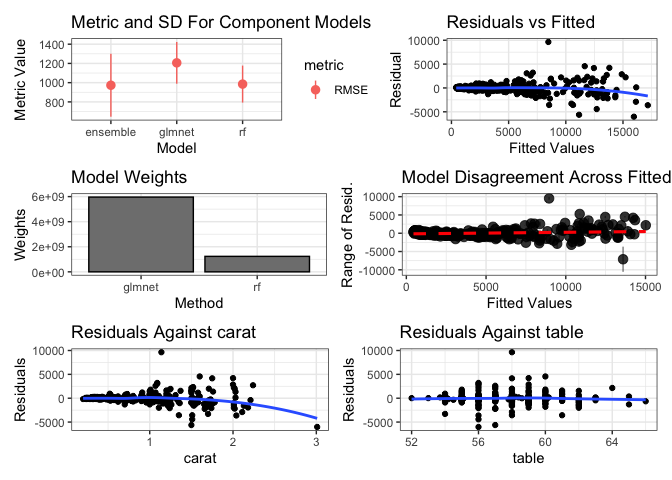
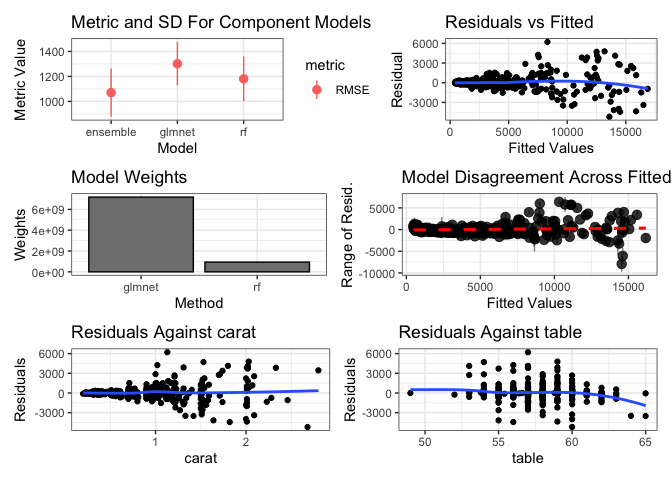
spell and rebuild

diff --git a/README.md b/README.md
@@ -46,10 +46,10 @@ print(summary(models))
 #> The following models were ensembled: rf, glmnet  
 #> 
 #> Model accuracy:
-#>    model_name metric     value       sd
-#>        <char> <char>     <num>    <num>
-#> 1:         rf   RMSE  984.9967 192.3488
-#> 2:     glmnet   RMSE 1206.0751 217.0510
+#>    model_name metric    value       sd
+#>        <char> <char>    <num>    <num>
+#> 1:         rf   RMSE 1180.525 180.2056
+#> 2:     glmnet   RMSE 1301.564 174.4400
 ```
 
 Then, use caretEnsemble to make a greedy ensemble of these models
@@ -64,21 +64,21 @@ print(greedy_stack)
 #> 
 #> No pre-processing
 #> Resampling: Cross-Validated (5 fold) 
-#> Summary of sample sizes: 401, 400, 400, 400, 399 
+#> Summary of sample sizes: 400, 400, 400, 400, 400 
 #> Resampling results:
 #> 
-#>   RMSE      Rsquared   MAE     
-#>   979.0064  0.9342773  506.3942
+#>   RMSE      Rsquared  MAE     
+#>   1135.576  0.930478  578.2765
 #> 
 #> Tuning parameter 'max_iter' was held constant at a value of 100
 #> 
 #> Final model:
 #> Greedy MSE
-#> RMSE:  985.9732 
+#> RMSE:  1137.89 
 #> Weights:
 #>        [,1]
-#> rf     0.81
-#> glmnet 0.19
+#> rf     0.65
+#> glmnet 0.35
 ```
 
 You can also use caretStack to make a non-linear ensemble
@@ -94,11 +94,11 @@ print(rf_stack)
 #> 
 #> No pre-processing
 #> Resampling: Cross-Validated (5 fold) 
-#> Summary of sample sizes: 400, 400, 399, 400, 401 
+#> Summary of sample sizes: 400, 400, 400, 400, 400 
 #> Resampling results:
 #> 
 #>   RMSE      Rsquared   MAE     
-#>   973.1948  0.9402302  500.0689
+#>   1070.944  0.9316113  554.4014
 #> 
 #> Tuning parameter 'mtry' was held constant at a value of 2
 #> 
@@ -110,11 +110,11 @@ print(rf_stack)
 #>                      Number of trees: 500
 #> No. of variables tried at each split: 2
 #> 
-#>           Mean of squared residuals: 1127223
-#>                     % Var explained: 92.21
+#>           Mean of squared residuals: 994643.2
+#>                     % Var explained: 93.92
 ```
 
-Use autoplot from ggplot2 to plot ensemble diagnositcs:
+Use autoplot from ggplot2 to plot ensemble diagnostics:
 
 ``` r
 ggplot2::autoplot(greedy_stack, training_data = dat, xvars = c("carat", "table"))
